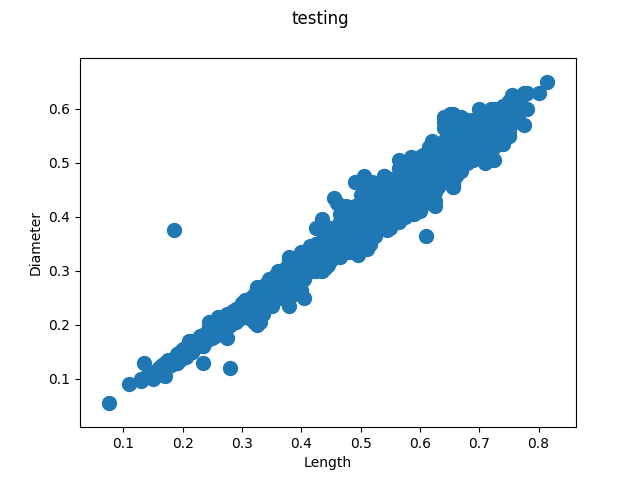
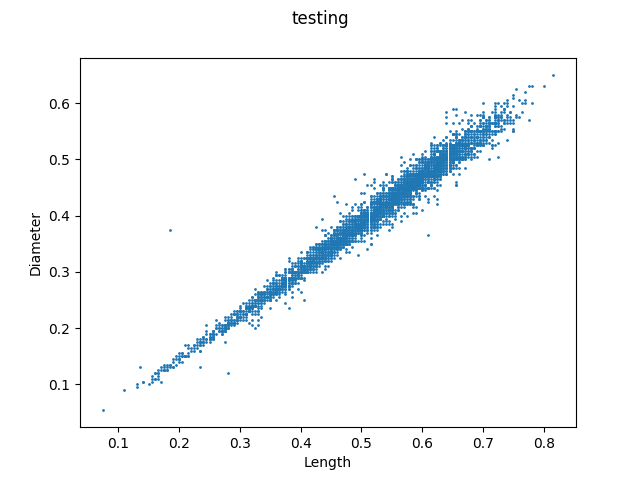
next test week 9

diff --git a/DSSA5001/Week9/plotter.py b/DSSA5001/Week9/plotter.py
@@ -22,7 +22,7 @@ print(min(diameter))
 #ax.scatter(feature1, feature2)
 #plt.savefig('example.png')
 
-ax.scatter(length, diameter, s=100)
+ax.scatter(length, diameter, s=1)
 fig.suptitle('testing')
 plt.xlabel("Length");
 plt.ylabel("Diameter");
